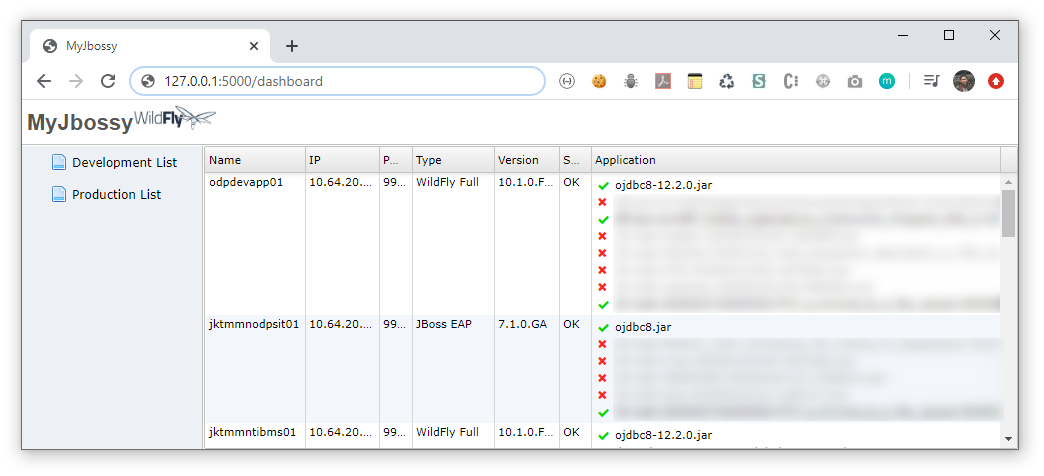
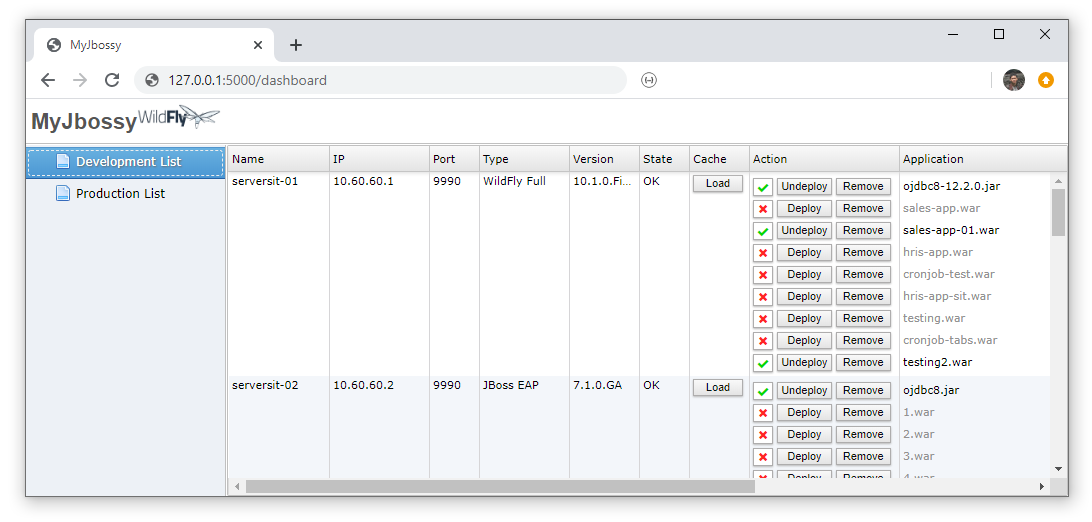
Adding remove deployment

Changed region(s): [[0.0, 0.0294, 0.9808, 0.9706]]

diff --git a/templates/dashboard.html b/templates/dashboard.html
@@ -28,29 +28,37 @@
         vertical-align: top;
     }
     .btn-simple {
-        box-shadow:inset 0px 1px 3px 0px #91b8b3;
-        background:linear-gradient(to bottom, #768d87 5%, #6c7c7c 100%);
-        background-color:#768d87;
-        border-radius:5px;
-        border:1px solid #566963;
+        background-image: linear-gradient(#f9f9f9,#e4e4e4);
+        color: #111;
+        text-shadow: none;
+        border-radius: 0px;
+        border: 1px solid #aeadad;
+        box-shadow: 0px 1px 2px 0px #b7b7b7;
+        width: 55px;
         display:inline-block;
         cursor:pointer;
-        color:#ffffff;
         font-family:Arial;
         font-size:11px;
         padding:2px 2px;
         text-decoration:none;
-        text-shadow:0px -1px 0px #2b665e;
     }
     .btn-simple:hover {
-        background:linear-gradient(to bottom, #6c7c7c 5%, #768d87 100%);
-        background-color:#6c7c7c;
+        background-image: linear-gradient(#DDDDDD,#e4e4e4);
+        color: #000;
     }
     .btn-simple:active {
         position:relative;
         top:1px;
     }
-
+    .detail-wrap{
+        font-size: 11px; 
+        line-height: 22px;
+    }
+    .detail-wrap-disabled{
+        font-size: 11px; 
+        line-height: 22px;
+        color:#929292;
+    }
             
     </style>
 </head>
@@ -105,19 +113,19 @@ $(function () {
         method: 'GET',  
         recordHeight : '50',
         columns: [                
-            { field: 'name', caption: 'Name', size: '12%' },
-            { field: 'ip', caption: 'IP', size: '9%' },
-            { field: 'port', caption: 'Port', size: '4%' },
-            { field: 'type', caption: 'Type', size: '9%' },
-            { field: 'version', caption: 'Version', size: '8%' },
-            { field: 'state', caption: 'State', size: '4%' },
-            { field: 'cache', caption: 'Cache', size: '4%',
+            { field: 'name', caption: 'Name', size: '100px' },
+            { field: 'ip', caption: 'IP', size: '100px' },
+            { field: 'port', caption: 'Port', size: '50px' },
+            { field: 'type', caption: 'Type', size: '90px' },
+            { field: 'version', caption: 'Version', size: '70px' },
+            { field: 'state', caption: 'State', size: '50px' },
+            { field: 'cache', caption: 'Cache', size: '60px',
                 render: function (record, index, column_index) {
-                    var html = "<button class=\"btn-simple\" onClick=\"reloadCache('http://"+record.ip+":8080/api/v1/cache/reload-all-cache1')\" >Load</button>";
+                    var html = "<button style=\"width:50px\" class=\"btn-simple\" onClick=\"reloadCache('http://"+record.ip+":8080/api/v1/cache/reload-all-cache1')\" >Load</button>";
                     return html;
                 }
             },
-            { field: 'app', caption: 'Application', size: '50%', height: 'auto',
+            { field: 'app', caption: 'Action', size: '150px', height: 'auto',
                 render: function (record, index, column_index) {
                     var html = "<div style=''>";
                     if(record.app == "N/A"){
@@ -130,9 +138,32 @@ $(function () {
                                 continue;
                             }
                             if(content[0] == "true"){
-                                html = html+'<div style="font-size: 11px; line-height: 17px;"> <i class="w2ui-icon-check" style="color: #00D700;float: left; width: 20px; padding: 2px 3px;"></i> <button class="btn-simple" id="btnUnDep_'+record.id+'_'+i+'" onClick="undeploy(\''+record.id+'_'+i+'\', \'http://'+record.ip+':'+record.port+'\',\''+content[1]+'\')" >Undeploy</button> ' + content[1] +'</div>';
+                                html = html+'<div class="detail-wrap"> <button class="btn-simple" style="width:20px;background:none;background-color:#fff"><i class="w2ui-icon-check" style="color: #00D700; width: 20px;"></i></button> <button class="btn-simple" id="btnUnDep_'+record.id+'_'+i+'" onClick="undeploy(\''+record.id+'_'+i+'\', \'http://'+record.ip+':'+record.port+'\',\''+content[1]+'\')" >Undeploy</button> <button class="btn-simple" onClick="remove(\''+record.id+'_'+i+'\', \'http://'+record.ip+':'+record.port+'\',\''+content[1]+'\')" id="btnRem_'+record.id+'_'+i+'" >Remove</button></div>';
                             } else {
-                                html = html+'<div style="font-size: 11px; line-height: 17px;color:#929292"> <i class="w2ui-icon-cross" style="color: #FF2424;float: left; width: 20px; padding: 2px 3px;"></i> <button class="btn-simple" id="btnDep_'+record.id+'_'+i+'" onClick="deploy(\''+record.id+'_'+i+'\', \'http://'+record.ip+':'+record.port+'\',\''+content[1]+'\')" >Deploy</button> ' + content[1] +'</div>';
+                                html = html+'<div class="detail-wrap-disabled"> <button class="btn-simple" style="width:20px;background:none;background-color:#fff"><i class="w2ui-icon-cross" style="color: #FF2424;width: 20px;"></i></button> <button class="btn-simple" id="btnDep_'+record.id+'_'+i+'" onClick="deploy(\''+record.id+'_'+i+'\', \'http://'+record.ip+':'+record.port+'\',\''+content[1]+'\')" >Deploy</button> <button class="btn-simple" onClick="remove(\''+record.id+'_'+i+'\', \'http://'+record.ip+':'+record.port+'\',\''+content[1]+'\')" id="btnRem_'+record.id+'_'+i+'"  >Remove</button></div>';
+                            }
+                        };
+                    }
+                    html = html+"</div>";
+                    return html;
+                }
+            },
+            { field: 'app', caption: 'Application', size: '600px', height: 'auto',
+                render: function (record, index, column_index) {
+                    var html = "<div style=''>";
+                    if(record.app == "N/A"){
+                        html = html+"N/A";
+                    } else {
+                        var data = record.app.split("###");
+                        for (var i = 0; i < data.length; i++) {
+                            content = data[i].split("~");
+                            if(data[i] == null || data[i] == "" || content == undefined || content == null){
+                                continue;
+                            }
+                            if(content[0] == "true"){
+                                html = html+'<div class="detail-wrap">' + content[1] +'</div>';
+                            } else {
+                                html = html+'<div class="detail-wrap-disabled">' + content[1] +'</div>';
                             }
                         };
                     }
@@ -145,7 +176,7 @@ $(function () {
 });
 
 function deploy(id, url, content){
-    if(confirm('Do you want to deploy this?')){
+    if(confirm('Do you want to deploy this package?')){
         $('#btnDep_'+id).attr('disabled', true);
         $('#btnDep_'+id).text('Processing...');
         $.ajax({
@@ -179,7 +210,7 @@ function deploy(id, url, content){
 }
 
 function undeploy(id, url, content){
-    if(confirm('Do you want to undeploy this?')){
+    if(confirm('Do you want to undeploy this package?')){
         $('#btnUnDep_'+id).attr('disabled', true);
         $('#btnUnDep_'+id).text('Processing...');
         $.ajax({
@@ -207,6 +238,33 @@ function undeploy(id, url, content){
                 alert(result);
                 $('#btnUnDep_'+id).removeAttr('disabled');
                 $('#btnUnDep_'+id).text('Undeploy');
+            }
+        });
+    }
+}
+
+function remove(id, url, content){
+    if(confirm('Do you want to remove this package?')){
+        $('#btnRem_'+id).attr('disabled', true);
+        $('#btnRem_'+id).text('Processing...');
+        $.ajax({
+            url: 'monitoring/remove',
+            method: 'POST',
+            async: true,
+            cache: false,
+            dataType: 'json',
+            data: {
+                "url": url,
+                "content": btoa("{\"operation\":\"composite\",\"address\":[],\"steps\":[{\"operation\":\"remove\",\"address\":{\"deployment\": \""+content+"\"}}]}")
+            },
+            success: function(result){
+                alert(JSON.stringify(result));
+                w2ui['grid'].reload();
+            },
+            error: function(result){
+                alert(result);
+                $('#btnRem_'+id).removeAttr('disabled');
+                $('#btnRem_'+id).text('Remove');
             }
         });
     }

diff --git a/main.py b/main.py
@@ -94,6 +94,21 @@ def undeploy():
     )
     return r.content
 
+@app.route('/remove', methods=['POST'])
+def remove():
+    content = request.form.get('content')
+    dataContent = base64.b64decode(content)
+    url = request.form.get('url')
+    url = url+"/management"
+    headers = {'Content-type': 'application/json', 'Accept': 'text/plain'}
+    r = requests.post(url,
+        data = dataContent,
+        proxies={"http": "http://10.0.144.183:8080"},
+        auth=HTTPDigestAuth('sigit', 'sigit'),
+        headers=headers
+    )
+    return r.content
+
 @app.route('/results')
 def results():
     with open("config.json", 'r') as file:

diff --git a/README.md b/README.md
@@ -8,6 +8,7 @@
 This app allows you the see current deployed war/jar files in some servers, by using their (Jboss and Wildfly) APIs we can get so many information about the packages.
 
 ### To Do ###
+- [X] Remove deployments
 - [ ] Multiple environment
 - [ ] Restart jboss/wildfly feature
 - [ ] Upload package feature
